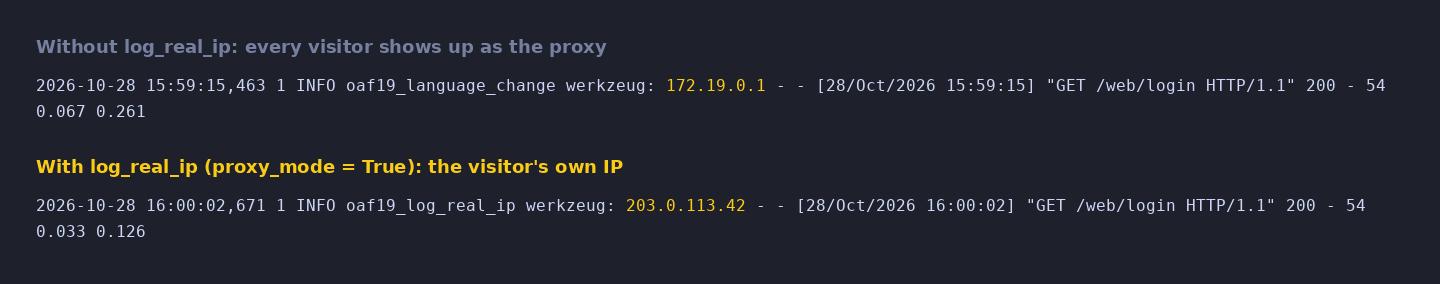
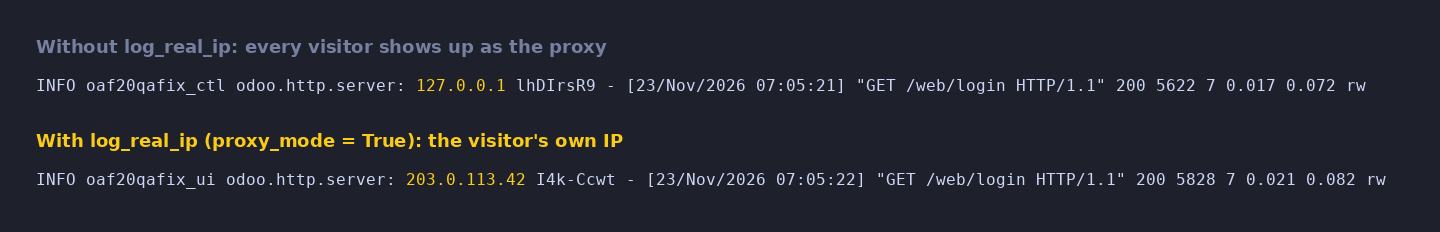
Fix [log_real_ip] rewrite for the Odoo 20 HTTP server, which the old patch never reached.

diff --git a/log_real_ip/static/description/index.html b/log_real_ip/static/description/index.html
@@ -7,7 +7,7 @@
   </p>
 
   <p style="text-align:center; margin:0 0 32px;">
-    <span style="display:inline-block; padding:3px 12px; margin:3px; border-radius:999px; background-color:#e9eef2; color:#23507a; font-size:13px; font-weight:600;">Odoo 19.0</span>
+    <span style="display:inline-block; padding:3px 12px; margin:3px; border-radius:999px; background-color:#e9eef2; color:#23507a; font-size:13px; font-weight:600;">Odoo 20.0</span>
     <span style="display:inline-block; padding:3px 12px; margin:3px; border-radius:999px; background-color:#e9eef2; color:#23507a; font-size:13px; font-weight:600;">Community &amp; Enterprise</span>
     <span style="display:inline-block; padding:3px 12px; margin:3px; border-radius:999px; background-color:#e9eef2; color:#23507a; font-size:13px; font-weight:600;">Free &middot; LGPL-3</span>
   </p>
@@ -20,7 +20,7 @@
   <div style="display:flex; flex-wrap:wrap; margin:0 -8px 32px;">
     <div style="flex:1 1 300px; margin:8px; padding:18px 20px; border:1px solid #e5e7eb; border-top:4px solid #23507a; border-radius:10px; background-color:#ffffff;">
       <h3 style="font-size:16px; font-weight:700; color:#111827; margin:0 0 6px;">Real client IP</h3>
-      <p style="font-size:14px; color:#4b5563; margin:0;">Reads the standard X-Forwarded-For header your proxy sets.</p>
+      <p style="font-size:14px; color:#4b5563; margin:0;">Logs the X-Forwarded-For entry your proxy added, not the ones a client can fake.</p>
     </div>
     <div style="flex:1 1 300px; margin:8px; padding:18px 20px; border:1px solid #e5e7eb; border-top:4px solid #23507a; border-radius:10px; background-color:#ffffff;">
       <h3 style="font-size:16px; font-weight:700; color:#111827; margin:0 0 6px;">nginx fallback</h3>
@@ -28,7 +28,7 @@
     </div>
     <div style="flex:1 1 300px; margin:8px; padding:18px 20px; border:1px solid #e5e7eb; border-top:4px solid #23507a; border-radius:10px; background-color:#ffffff;">
       <h3 style="font-size:16px; font-weight:700; color:#111827; margin:0 0 6px;">Only with proxy mode</h3>
-      <p style="font-size:14px; color:#4b5563; margin:0;">Active only when Odoo runs with proxy_mode = True, so the header cannot be spoofed on direct setups.</p>
+      <p style="font-size:14px; color:#4b5563; margin:0;">Active only when Odoo runs with proxy_mode = True. Your proxy must set X-Forwarded-For, and Odoo's port must be closed to direct access.</p>
     </div>
     <div style="flex:1 1 300px; margin:8px; padding:18px 20px; border:1px solid #e5e7eb; border-top:4px solid #23507a; border-radius:10px; background-color:#ffffff;">
       <h3 style="font-size:16px; font-weight:700; color:#111827; margin:0 0 6px;">No overhead</h3>

diff --git a/log_real_ip/tests/test_log_real_ip.py b/log_real_ip/tests/test_log_real_ip.py
@@ -1,0 +1,59 @@
+from unittest.mock import patch
+
+import h11
+
+from odoo.http.server import HTTPSocket
+from odoo.tests import TransactionCase, tagged
+from odoo.tools import config
+
+PEER = "172.19.0.1"
+
+
+@tagged("post_install", "-at_install")
+class TestLogRealIp(TransactionCase):
+    def _logged(self, *headers, proxy_mode=True):
+        socket = HTTPSocket(None, (PEER, 40000))
+        socket.h11request = h11.Request(
+            method="GET", target="/", headers=[("Host", "odoo.example"), *headers]
+        )
+        with patch.dict(config.options, {"proxy_mode": proxy_mode}):
+            socket._make_environ()
+        return socket.ip
+
+    def test_client_cannot_forge_the_first_entry(self):
+        ip = self._logged(("X-Forwarded-For", "6.6.6.6, 198.51.100.7"))
+        self.assertEqual(ip, "198.51.100.7")
+
+    def test_client_cannot_forge_with_its_own_header(self):
+        ip = self._logged(
+            ("X-Forwarded-For", "6.6.6.6"), ("X-Forwarded-For", "198.51.100.7")
+        )
+        self.assertEqual(ip, "198.51.100.7")
+
+    def test_only_addresses_are_logged(self):
+        self.assertEqual(self._logged(("X-Forwarded-For", '1.2.3.4 - "GET /')), PEER)
+        self.assertEqual(self._logged(("X-Real-Ip", "not an address")), PEER)
+
+    def test_real_ip_fallback(self):
+        self.assertEqual(self._logged(("X-Real-Ip", "198.51.100.8")), "198.51.100.8")
+
+    def test_ipv6_and_port(self):
+        self.assertEqual(
+            self._logged(("X-Forwarded-For", "2001:db8::7")), "2001:db8::7"
+        )
+        ip = self._logged(("X-Forwarded-For", "198.51.100.7:51234"))
+        self.assertEqual(ip, "198.51.100.7")
+
+    def test_no_header(self):
+        self.assertEqual(self._logged(), PEER)
+
+    def test_forwarded_host(self):
+        ip = self._logged(
+            ("X-Forwarded-For", "6.6.6.6, 198.51.100.7"),
+            ("X-Forwarded-Host", "odoo.example"),
+        )
+        self.assertEqual(ip, "198.51.100.7")
+
+    def test_ignored_without_proxy_mode(self):
+        headers = ("X-Forwarded-For", "198.51.100.7")
+        self.assertEqual(self._logged(headers, proxy_mode=False), PEER)

diff --git a/log_real_ip/patch.py b/log_real_ip/patch.py
@@ -1,17 +1,37 @@
-import logging
-import werkzeug.serving
+import ipaddress
+
+from odoo.http.server import HTTPSocket
 from odoo.tools import config
 
-_logger = logging.getLogger(__name__)
+_original_make_environ = HTTPSocket._make_environ
 
-_original_address_string = werkzeug.serving.WSGIRequestHandler.address_string
 
-def _patched_address_string(self):
-    xff = self.headers.get("X-Forwarded-For") or self.headers.get("X-Real-Ip")
-    if xff:
-        return xff.split(",")[0].strip()
-    return _original_address_string(self)
+def _client_ip(forwarded_for, real_ip):
+    """The address the proxy saw. It appends to X-Forwarded-For, so only the last
+    entry is its own; everything before comes from the client."""
+    value = forwarded_for.rsplit(",", 1)[-1] if forwarded_for else real_ip or ""
+    value = value.strip()
+    if value.count(":") == 1:
+        value = value.split(":")[0]  # IPv4 with a port
+    if "%" in value:
+        return None  # a zone id may hold any text
+    try:
+        ipaddress.ip_address(value)
+    except ValueError:
+        return None
+    return value
 
-if config.get("proxy_mode"):
-    _logger.info("log_real_ip: patching werkzeug address_string to use X-Forwarded-For")
-    werkzeug.serving.WSGIRequestHandler.address_string = _patched_address_string
+
+def _make_environ(self):
+    environ = _original_make_environ(self)
+    # Odoo does this only when the proxy also sends X-Forwarded-Host
+    if config["proxy_mode"]:
+        ip = _client_ip(
+            environ.get("HTTP_X_FORWARDED_FOR"), environ.get("HTTP_X_REAL_IP")
+        )
+        if ip:
+            self.ip = ip  # the log's address only: REMOTE_ADDR stays Odoo's decision
+    return environ
+
+
+HTTPSocket._make_environ = _make_environ

diff --git a/log_real_ip/__manifest__.py b/log_real_ip/__manifest__.py
@@ -1,8 +1,8 @@
 {
     'name': 'Log Real IP',
-    'version': '20.0.1.0.1',
+    'version': '20.0.1.1.0',
     'category': 'Technical',
-    'summary': 'Show real client IP in werkzeug logs when behind a reverse proxy',
+    'summary': 'Show real client IP in the access log when behind a reverse proxy',
     'author': 'Paulius Gaizauskas',
     'website': 'https://github.com/Paulius11/odoo-custom-addons',
     'support': 'paulius.gaizauskas@gmail.com',

diff --git a/log_real_ip/tests/__init__.py b/log_real_ip/tests/__init__.py
@@ -1,0 +1,1 @@
+from . import test_log_real_ip

diff --git a/README.md b/README.md
@@ -18,7 +18,7 @@ also on the [Odoo Apps Store](https://apps.odoo.com/apps/modules/browse?author=P
 |  | Debug Logger | Log create, write, delete and search calls for debugging | [✓](https://github.com/Paulius11/odoo-custom-addons/tree/17.0/debug_logger) |  |  |
 |  | List Arrow Keys | Arrow keys move between cells of an editable list, like a spreadsheet | [✓](https://github.com/Paulius11/odoo-custom-addons/tree/17.0/web_list_arrow_keys) |  |  |
 |  | List View Column Presets | Save the columns of a list view as presets, switch back in one click | [✓](https://github.com/Paulius11/odoo-custom-addons/tree/17.0/web_listview_column_presets) |  |  |
-| <img src="log_real_ip/static/description/icon.png" width="32"> | [Log Real IP](log_real_ip/) | Show real client IP in werkzeug logs when behind a reverse proxy |  | [✓](https://github.com/Paulius11/odoo-custom-addons/tree/18.0/log_real_ip) | [✓](https://github.com/Paulius11/odoo-custom-addons/tree/19.0/log_real_ip) |
+| <img src="log_real_ip/static/description/icon.png" width="32"> | [Log Real IP](log_real_ip/) | Show real client IP in the access log when behind a reverse proxy |  | [✓](https://github.com/Paulius11/odoo-custom-addons/tree/18.0/log_real_ip) | [✓](https://github.com/Paulius11/odoo-custom-addons/tree/19.0/log_real_ip) |
 | <img src="mail_lost/static/description/icon.png" width="32"> | [Lost Emails](mail_lost/) | Keep incoming emails that Odoo cannot route, and route them by hand | [✓](https://github.com/Paulius11/odoo-custom-addons/tree/17.0/mail_lost) | [✓](https://github.com/Paulius11/odoo-custom-addons/tree/18.0/mail_lost) | [✓](https://github.com/Paulius11/odoo-custom-addons/tree/19.0/mail_lost) |
 | <img src="module_version/static/description/icon.png" width="32"> | [Module Version](module_version/) | Display module version, track lifecycle history, and check for App Store updates | [✓](https://github.com/Paulius11/odoo-custom-addons/tree/17.0/module_version) | [✓](https://github.com/Paulius11/odoo-custom-addons/tree/18.0/module_version) | [✓](https://github.com/Paulius11/odoo-custom-addons/tree/19.0/module_version) |
 | <img src="language_change/static/description/icon.png" width="32"> | [Quick Language Switcher](language_change/) | Fast language switching from the Odoo interface | [✓](https://github.com/Paulius11/odoo-custom-addons/tree/17.0/language_change) | [✓](https://github.com/Paulius11/odoo-custom-addons/tree/18.0/language_change) | [✓](https://github.com/Paulius11/odoo-custom-addons/tree/19.0/language_change) |

diff --git a/log_real_ip/README.md b/log_real_ip/README.md
@@ -1,12 +1,12 @@
 # Log Real IP
 
-Show real client IPs in werkzeug access logs when Odoo runs behind a reverse proxy.
+Show real client IPs in the access log when Odoo runs behind a reverse proxy.
 
 ![The same request logged without and with log_real_ip](static/description/screenshot_1.png)
 
 ## Features
 
-- Reads `X-Forwarded-For` header (standard reverse-proxy convention)
+- Reads the last `X-Forwarded-For` entry: the one your proxy added, which a client cannot forge
 - Falls back to `X-Real-IP` header (nginx convention)
 - Activates only when `proxy_mode = True` — zero impact on direct setups
 - Lightweight: a single startup patch, no database writes
@@ -22,18 +22,22 @@ Show real client IPs in werkzeug access logs when Odoo runs behind a reverse pro
 
 No configuration needed. The module reads the `proxy_mode` setting from `odoo.conf` at startup. If `proxy_mode` is `False` or unset, the patch is not applied.
 
+Your proxy must set `X-Forwarded-For` (nginx: `proxy_set_header X-Forwarded-For $proxy_add_x_forwarded_for;`) and Odoo's port must not be reachable around the proxy. Otherwise a client can send the header itself. With several proxies in a row, the log shows the address the last one saw.
+
 ## Usage
 
-After installation and restart, werkzeug access log lines will show the originating client IP instead of the proxy's internal address:
+After installation and restart, access log lines will show the originating client IP instead of the proxy's internal address:
 
 ```
-127.0.0.1 - - [01/Jan/2025 12:00:00] "GET / HTTP/1.1" 200 -   # before
-203.0.113.42 - - [01/Jan/2025 12:00:00] "GET / HTTP/1.1" 200 - # after
+odoo.http.server: 172.19.0.1 4wHdclb9 - [01/Jan/2026 12:00:00] "GET / HTTP/1.1" 200 ...   # before
+odoo.http.server: 203.0.113.42 4wHdclb9 - [01/Jan/2026 12:00:00] "GET / HTTP/1.1" 200 ... # after
 ```
+
+Odoo 20 does this on its own only when the proxy also sends `X-Forwarded-Host`.
 
 ## Technical Details
 
-- **Compatibility**: Odoo 17.0
+- **Compatibility**: Odoo 20.0
 - **Dependencies**: `base`
 - **License**: LGPL-3
-- **Approach**: Monkey-patches `werkzeug.serving.WSGIRequestHandler.address_string` at module load time
+- **Approach**: Wraps `odoo.http.server.HTTPSocket._make_environ` at module load time; only the logged address changes

diff --git a/log_real_ip/doc/RELEASE_NOTES.md b/log_real_ip/doc/RELEASE_NOTES.md
@@ -1,0 +1,7 @@
+## Module log_real_ip
+
+#### 22.11.2026
+#### Version 20.0.1.1.0
+#### BUG FIX
+- Rewritten for Odoo 20's HTTP server; the previous version changed nothing.
+- Works without `X-Forwarded-Host`, and a client cannot forge the first entry.
